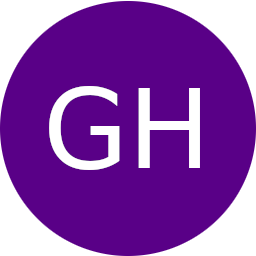
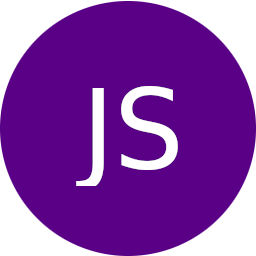
feat: MM-53 Update stub comment name (#45)
Co-committed-by: JonathonClifford <jono.cliff@gmail.com>

Changed region(s): [[0.1875, 0.3125, 0.7812, 0.75]]

diff --git a/apps/medical-models/features/comments/components/Comment.tsx b/apps/medical-models/features/comments/components/Comment.tsx
@@ -27,7 +27,7 @@ export function Comment({
         <ProfileIcon />
         <Box className={styles.comment_info_box}>
           <Box>
-            <Link variant="h4">Gregory House</Link>
+            <Link variant="h4">John Smith</Link>
             <Typography variant="caption">
               {formatTimeSince(commentNode.comment.modifiedDate)}
             </Typography>

diff --git a/apps/medical-models/components/profile-icon/ProfileIcon.tsx b/apps/medical-models/components/profile-icon/ProfileIcon.tsx
@@ -1,7 +1,7 @@
 import Image from 'next/image';
 import stubProfilePic from '../../public/stub-profile-img.png';
 
-export function ProfileIcon({ size = 32 }: { size: number }) {
+export function ProfileIcon({ size = 32 }: { size?: number }) {
   return (
     <Image src={stubProfilePic} alt="Profile Icon" width={size} height={size} />
   );
